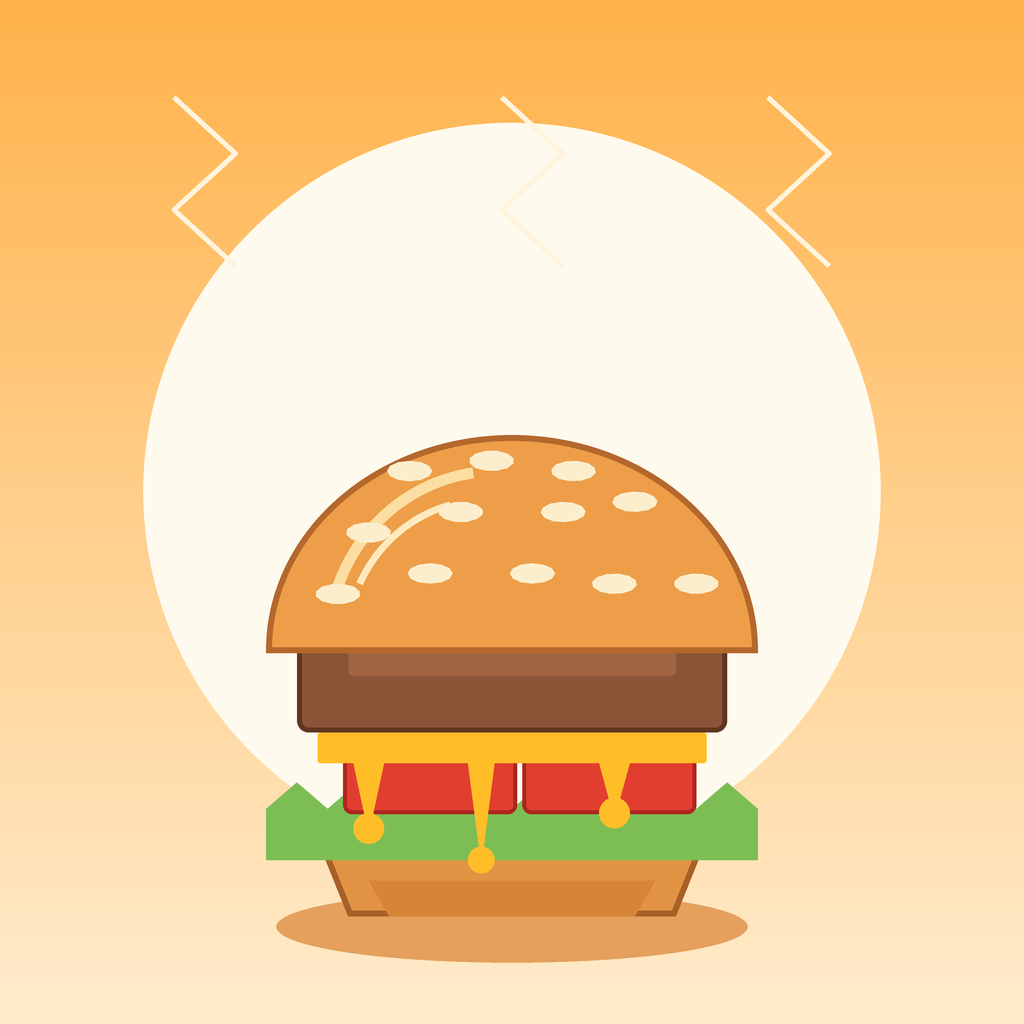
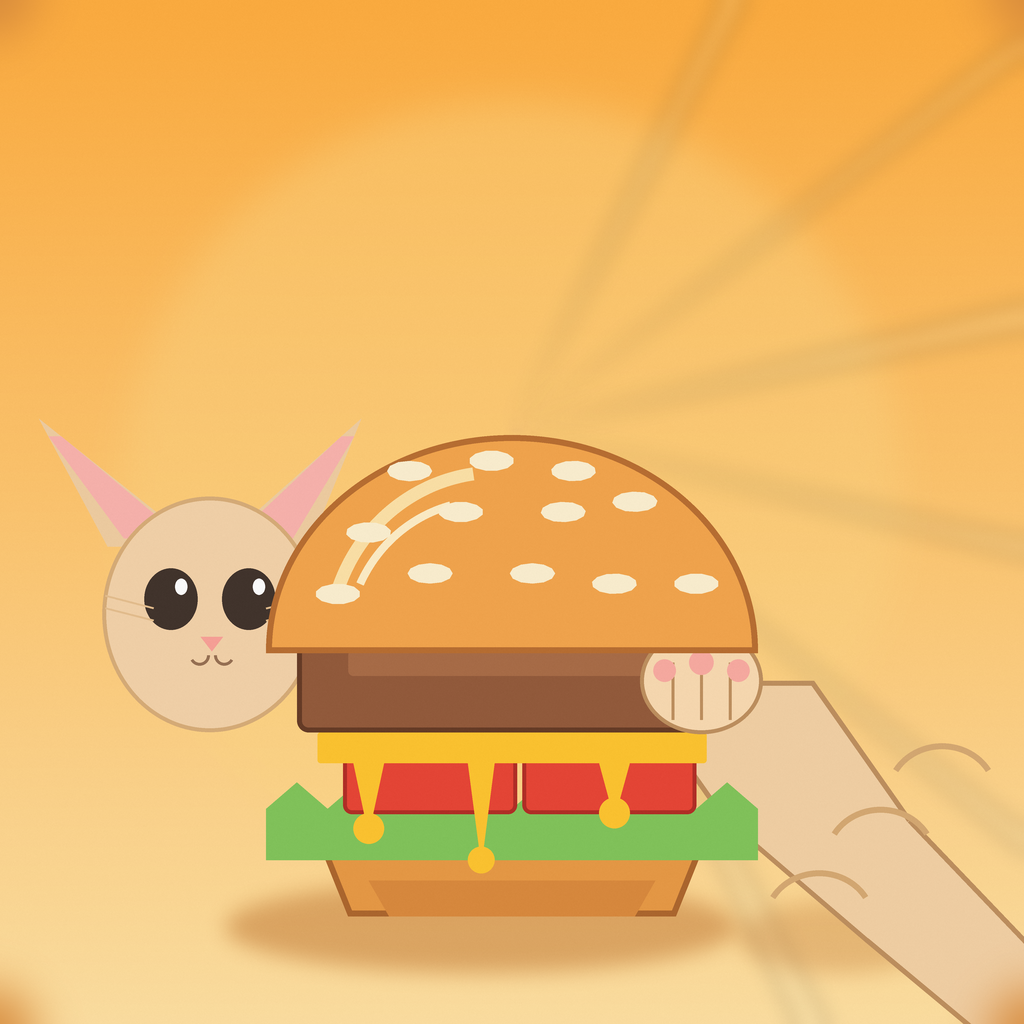
Glossy burger with naughty cat stealing a patty - warm golden light, rev2

diff --git a/gen_entry.py b/gen_entry.py
@@ -1,6 +1,14 @@
-"""food-picture-01 entry generator: a tall glossy burger, flat illustration."""
-from PIL import Image, ImageDraw
+"""food-picture-01 entry generator, rev 1: glossy burger + naughty cat stealing a patty.
+
+Winning-formula upgrade (ai-happy-01): two characters interacting (burger + sneaky
+cat paw/head), a funny moment, warm golden-hour lighting, painterly texture.
+"""
+from PIL import Image, ImageDraw, ImageFilter
+import math
 import os
+import random
+
+random.seed(20261114)
 
 S = 4          # supersample factor
 W = H = 1024
@@ -14,33 +22,116 @@ def scaled(*vals):
 img = Image.new("RGB", (WBig, HBig))
 d = ImageDraw.Draw(img)
 
-# --- background: warm mustard -> cream vertical gradient -------------------
-top = (255, 178, 74)     # warm mustard
-bot = (255, 236, 205)    # cream
+# --- background: warm golden-hour radial gradient + light rays --------------
+cx0, cy0 = 0.5 * WBig, 0.42 * HBig
+maxd = math.hypot(cx0, cy0)
+top, bot = (255, 172, 60), (255, 224, 160)
 for y in range(HBig):
     t = y / (HBig - 1)
-    c = tuple(int(top[i] + (bot[i] - top[i]) * t) for i in range(3))
-    d.line([(0, y), (WBig, y)], fill=c)
+    base = tuple(int(top[i] + (bot[i] - top[i]) * t) for i in range(3))
+    d.line([(0, y), (WBig, y)], fill=base)
 
-# --- soft glow circle behind the burger ------------------------------------
-glow_cx, glow_cy, glow_r = 0.5 * W, 0.48 * H, 0.36 * W
-for off, col in [(0.06, (255, 244, 222)), (0, (255, 250, 238))]:
-    d.ellipse(scaled(glow_cx - glow_r - off, glow_cy - glow_r - off,
-                     glow_cx + glow_r + off, glow_cy + glow_r + off), fill=col)
+# radial warm glow toward the burger
+glow = Image.new("L", (W, H), 0)
+gd = ImageDraw.Draw(glow)
+gd.ellipse([0.12 * W, 0.10 * H, 0.88 * W, 0.86 * H], fill=110)
+glow = glow.resize((WBig, HBig), Image.LANCZOS).filter(ImageFilter.GaussianBlur(18 * S))
+warm = Image.new("RGB", (WBig, HBig), (255, 214, 130))
+img = Image.composite(warm, img, glow)
+d = ImageDraw.Draw(img)
 
-# --- ground shadow under the burger ----------------------------------------
-d.ellipse(scaled(0.27 * W, 0.87 * H, 0.73 * W, 0.94 * H), fill=(228, 160, 92))
+# light rays fanning from upper centre
+for ang, wid in [(-64, 26), (-38, 18), (-14, 30), (12, 20), (38, 16), (62, 24)]:
+    a = math.radians(90 + ang)  # measured from up-vector
+    x2 = cx0 + math.sin(a) * 1.4 * WBig
+    y2 = cy0 - math.cos(a) * 1.4 * HBig
+    x3 = cx0 + math.sin(a + math.radians(wid / 10)) * 1.4 * WBig
+    y3 = cy0 - math.cos(a + math.radians(wid / 10)) * 1.4 * HBig
+    ray = Image.new("RGBA", (WBig, HBig), (0, 0, 0, 0))
+    rd = ImageDraw.Draw(ray)
+    rd.polygon([(cx0, cy0), (x2, y2), (x3, y3)], fill=(255, 240, 190, 52))
+    ray = ray.filter(ImageFilter.GaussianBlur(10 * S))
+    img = Image.alpha_composite(img.convert("RGBA"), ray).convert("RGB")
+d = ImageDraw.Draw(img)
 
-# --- bottom bun (heel) ------------------------------------------------------
+# --- soft ground shadow ------------------------------------------------------
+sh = Image.new("L", (WBig, HBig), 0)
+sd = ImageDraw.Draw(sh)
+sd.ellipse(scaled(0.22 * W, 0.86 * H, 0.72 * W, 0.95 * H), fill=140)
+sd.ellipse(scaled(0.72 * W, 0.88 * H, 0.92 * W, 0.95 * H), fill=90)  # under the sneaky paw
+sh = sh.filter(ImageFilter.GaussianBlur(10 * S))
+shadow_col = Image.new("RGB", (WBig, HBig), (196, 122, 52))
+img = Image.composite(shadow_col, img, sh)
+d = ImageDraw.Draw(img)
+
+# --- naughty cat reaching in from the right, paw stealing the patty ----------
+# arm: cream tabby with outline, coming from bottom-right corner toward the patty
+arm = [(1.02, 1.02), (0.90, 0.92), (0.76, 0.80), (0.665, 0.665)]
+arm_pts = []
+for i, (ax, ay) in enumerate(arm):
+    arm_pts += [ax * W - 0.055 * W, ay * H]
+for i in reversed(range(len(arm))):
+    ax, ay = arm[i]
+    w = 0.105 * W if i < 2 else 0.130 * W
+    arm_pts += [ax * W + w, ay * H]
+d.polygon(scaled(*arm_pts), fill=(243, 208, 163), outline=(190, 142, 92), width=5 * S)
+
+# tabby stripes hugging the arm's spine
+for i in range(3):
+    sx, sy = 0.80 + 0.06 * i, 0.90 - 0.062 * i
+    d.arc(scaled(sx * W - 0.055 * W, sy * H - 0.05 * H, sx * W + 0.055 * W, sy * H + 0.05 * H),
+          start=210, end=330, fill=(214, 168, 112), width=6 * S)
+
+# paw gripping the patty's right edge is drawn AFTER the patty (see below)
+
+# --- cat head peeking from behind the burger, left side ----------------------
+head_cx, head_cy = 0.205 * W, 0.60 * H
+head_rx, head_ry = 0.105 * W, 0.115 * H
+# ears first (behind head)
+for ex, tilt in [(-0.055, -28), (0.052, 24)]:
+    exx, exy = head_cx + ex * W, head_cy - head_ry * 0.75
+    tip = (exx + tilt * W * 0.004, exy - 0.105 * H)
+    base_l = (exx - 0.045 * W, exy + 0.02 * H)
+    base_r = (exx + 0.045 * W, exy + 0.02 * H)
+    d.polygon(scaled(*base_l, *tip, *base_r), fill=(240, 205, 160))
+    d.polygon(scaled(base_l[0] + 0.016 * W, base_l[1] - 0.008 * H,
+                     tip[0] * 0.86 + base_l[0] * 0.14, tip[1] * 0.86 + base_l[1] * 0.14,
+                     tip[0] * 0.86 + base_r[0] * 0.14, tip[1] * 0.86 + base_r[1] * 0.14,
+                     base_r[0] - 0.016 * W, base_r[1] - 0.008 * H), fill=(250, 178, 172))
+# round head half-hidden behind the bun's left edge
+d.ellipse(scaled(head_cx - head_rx, head_cy - head_ry, head_cx + head_rx, head_cy + head_ry),
+          fill=(244, 210, 168), outline=(216, 172, 118), width=4 * S)
+# face: two big shiny eyes looking at the burger (to the right)
+for exo in (-0.038, 0.038):
+    ecx, ecy = head_cx + exo * W, head_cy - 0.015 * H
+    d.ellipse(scaled(ecx - 0.026 * W, ecy - 0.030 * H, ecx + 0.026 * W, ecy + 0.030 * H),
+              fill=(62, 48, 40))
+    d.ellipse(scaled(ecx + 0.004 * W, ecy - 0.020 * H, ecx + 0.016 * W, ecy - 0.004 * H),
+              fill=(255, 255, 255))
+# tiny pink nose + w-shaped mouth (naughty grin)
+ncx, ncy = head_cx + 0.002 * W, head_cy + 0.030 * H
+d.polygon(scaled(ncx - 0.011 * W, ncy - 0.008 * H, ncx + 0.011 * W, ncy - 0.008 * H, ncx, ncy + 0.006 * H),
+          fill=(250, 160, 150))
+d.arc(scaled(ncx - 0.022 * W, ncy, ncx - 0.002 * W, ncy + 0.020 * H), start=0, end=150,
+      fill=(150, 110, 80), width=3 * S)
+d.arc(scaled(ncx + 0.002 * W, ncy, ncx + 0.022 * W, ncy + 0.020 * H), start=30, end=180,
+      fill=(150, 110, 80), width=3 * S)
+# whiskers
+for wy in (-0.006, 0.006):
+    d.line(scaled(head_cx + 0.055 * W, head_cy + wy * H,
+                  head_cx + 0.105 * W, head_cy + (wy - 0.012) * H), fill=(230, 190, 140), width=2 * S)
+    d.line(scaled(head_cx - 0.055 * W, head_cy + wy * H,
+                  head_cx - 0.102 * W, head_cy + (wy - 0.012) * H), fill=(230, 190, 140), width=2 * S)
+
+# --- bottom bun (heel) -------------------------------------------------------
 heel = [0.30 * W, 0.795 * H, 0.70 * W, 0.795 * H, 0.66 * W, 0.895 * H,
         0.34 * W, 0.895 * H]
-d.polygon(scaled(*heel), fill=(226, 148, 68))
-d.polygon(scaled(*heel), outline=(168, 96, 40), width=6 * S)
-# heel shading
+d.polygon(scaled(*heel), fill=(232, 152, 66))
+d.polygon(scaled(*heel), outline=(172, 100, 42), width=6 * S)
 d.polygon(scaled(0.36 * W, 0.86 * H, 0.64 * W, 0.86 * H, 0.62 * W, 0.895 * H,
-                 0.38 * W, 0.895 * H), fill=(214, 132, 56))
+                 0.38 * W, 0.895 * H), fill=(218, 136, 58))
 
-# --- lettuce: frilly green wave --------------------------------------------
+# --- lettuce: frilly green wave ----------------------------------------------
 lettuce_y = 0.79 * H
 pts = [0.26 * W, lettuce_y]
 x = 0.26 * W
@@ -49,77 +140,87 @@ while x < 0.74 * W:
     pts += [x + 0.03 * W, lettuce_y - ruffle, x + 0.06 * W, lettuce_y]
     x += 0.06 * W
 pts += [0.74 * W, lettuce_y + 0.05 * H, 0.26 * W, lettuce_y + 0.05 * H]
-d.polygon(scaled(*pts), fill=(124, 190, 84))
+d.polygon(scaled(*pts), fill=(128, 196, 88))
 
-# --- tomato slices: two red domes peeking out ------------------------------
+# --- tomato slices ------------------------------------------------------------
 for tx, tw in [(0.335, 0.17), (0.51, 0.17)]:
     d.rounded_rectangle(scaled(tx * W, 0.725 * H, (tx + tw) * W, 0.795 * H),
-                        radius=0.035 * W, fill=(226, 62, 48))
+                        radius=0.035 * W, fill=(232, 66, 50))
     d.rounded_rectangle(scaled(tx * W, 0.725 * H, (tx + tw) * W, 0.795 * H),
-                        radius=0.035 * W, outline=(172, 38, 30), width=4 * S)
+                        radius=0.035 * W, outline=(178, 42, 34), width=4 * S)
 
-# --- cheese: thick melting slab with drips ---------------------------------
+# --- cheese: thick melting slab with drips ------------------------------------
 cheese_y = 0.715 * H
 d.rounded_rectangle(scaled(0.31 * W, cheese_y, 0.69 * W, 0.745 * H),
-                    radius=0.012 * W, fill=(255, 190, 40))
-# drips
-for dx, dd, dlen in [(0.36, 0.030, 0.10), (0.47, 0.026, 0.13),
-                     (0.60, 0.030, 0.085)]:
-    cx = dx * W
+                    radius=0.012 * W, fill=(255, 196, 44))
+for dx, dd, dlen in [(0.36, 0.030, 0.10), (0.47, 0.026, 0.13), (0.60, 0.030, 0.085)]:
+    cxx = dx * W
     half = dd * W / 2
     tip = cheese_y + dlen * H
-    d.polygon(scaled(cx - half, cheese_y + 0.03 * H, cx + half,
-                     cheese_y + 0.03 * H, cx, tip), fill=(255, 190, 40))
-    d.ellipse(scaled(cx - half, tip - half * 1.4, cx + half,
-                     tip + half * 0.6), fill=(255, 190, 40))
+    d.polygon(scaled(cxx - half, cheese_y + 0.03 * H, cxx + half,
+                     cheese_y + 0.03 * H, cxx, tip), fill=(255, 196, 44))
+    d.ellipse(scaled(cxx - half, tip - half * 1.4, cxx + half,
+                     tip + half * 0.6), fill=(255, 196, 44))
 
-# --- patty: thick brown beef slab ------------------------------------------
-patty = [0.29 * W, 0.615 * H, 0.71 * W, 0.615 * H, 0.71 * W, 0.715 * H,
-         0.29 * W, 0.715 * H]
+# --- patty: thick brown beef slab (the one being stolen) ----------------------
 d.rounded_rectangle(scaled(0.29 * W, 0.615 * H, 0.71 * W, 0.715 * H),
-                    radius=0.045 * W, fill=(139, 84, 54))
+                    radius=0.045 * W, fill=(146, 88, 56))
 d.rounded_rectangle(scaled(0.29 * W, 0.615 * H, 0.71 * W, 0.715 * H),
-                    radius=0.045 * W, outline=(96, 54, 32), width=5 * S)
-# patty grill highlight
+                    radius=0.045 * W, outline=(100, 56, 34), width=5 * S)
 d.rounded_rectangle(scaled(0.34 * W, 0.635 * H, 0.66 * W, 0.660 * H),
-                    radius=0.02 * W, fill=(160, 100, 64))
+                    radius=0.02 * W, fill=(168, 106, 68))
+# juicy gloss streak on the patty
+d.rounded_rectangle(scaled(0.36 * W, 0.622 * H, 0.62 * W, 0.632 * H),
+                    radius=0.005 * W, fill=(196, 128, 86))
 
-# --- top bun: big glossy dome ----------------------------------------------
+# --- paw gripping the patty's right edge (cream mitt clearly over the beef) ---
+paw_cx, paw_cy = 0.685 * W, 0.665 * H
+d.ellipse(scaled(paw_cx - 0.060 * W, paw_cy - 0.052 * H, paw_cx + 0.060 * W, paw_cy + 0.052 * H),
+          fill=(250, 218, 176), outline=(190, 142, 92), width=4 * S)
+for tx in (-0.028, 0.0, 0.028):
+    d.line(scaled(paw_cx + tx * W, paw_cy - 0.018 * H, paw_cx + tx * W, paw_cy + 0.038 * H),
+           fill=(190, 142, 92), width=3 * S)
+for bx, by, br in [(-0.036, -0.010, 0.011), (0.0, -0.018, 0.012), (0.036, -0.010, 0.011)]:
+    d.ellipse(scaled(paw_cx + bx * W - br * W, paw_cy + by * H - br * W,
+                     paw_cx + bx * W + br * W, paw_cy + by * H + br * W), fill=(250, 170, 160))
+
+# --- top bun: big glossy dome --------------------------------------------------
 bun_box = scaled(0.26 * W, 0.425 * H, 0.74 * W, 0.845 * H)
-d.pieslice(bun_box, start=180, end=360, fill=(238, 158, 72))
-d.pieslice(bun_box, start=180, end=360, outline=(180, 104, 44), width=6 * S)
-# glossy highlight: two concentric crescent arcs upper-left (no wedges)
+d.pieslice(bun_box, start=180, end=360, fill=(244, 164, 74))
+d.pieslice(bun_box, start=180, end=360, outline=(184, 108, 46), width=6 * S)
 d.arc(scaled(0.315 * W, 0.455 * H, 0.655 * W, 0.805 * H),
-      start=200, end=262, fill=(252, 222, 162), width=11 * S)
+      start=200, end=262, fill=(254, 226, 166), width=13 * S)
 d.arc(scaled(0.335 * W, 0.485 * H, 0.615 * W, 0.775 * H),
-      start=205, end=255, fill=(254, 233, 190), width=7 * S)
-# sesame seeds: little tilted ovals across the dome
+      start=205, end=255, fill=(255, 238, 198), width=8 * S)
+
+# sesame seeds
 seeds = [(0.40, 0.46, -30), (0.48, 0.45, 15), (0.56, 0.46, 40),
          (0.36, 0.52, 20), (0.45, 0.50, -15), (0.55, 0.50, -35),
          (0.62, 0.49, 25), (0.33, 0.58, 45), (0.42, 0.56, 0),
          (0.52, 0.56, 30), (0.60, 0.57, -20), (0.68, 0.57, 15)]
 for sx, sy, rot in seeds:
-    cx, cy = sx * W, sy * H
-    rx, ry = 0.022 * W, 0.010 * W
+    scx, scy = sx * W, sy * H
+    srx, sry = 0.022 * W, 0.010 * W
     pts = []
     for k in range(12):
-        a = k / 12 * 2 * 3.14159 + rot * 3.14159 / 180
-        px = cx + rx * __import__("math").cos(a)
-        py = cy + ry * __import__("math").sin(a)
-        pts += [px, py]
-    d.polygon(scaled(*pts), fill=(252, 238, 205))
+        a = k / 12 * 2 * math.pi + rot * math.pi / 180
+        pts += [scx + srx * math.cos(a), scy + sry * math.sin(a)]
+    d.polygon(scaled(*pts), fill=(253, 240, 208))
 
-# --- steam curls rising off the burger --------------------------------------
-for sx in (-0.30, 0.02, 0.28):
-    x0 = 0.5 * W + sx * W
-    y0 = 0.26 * H
-    pts = []
-    for j in range(4):
-        wob = 0.030 * W * (1 if j % 2 == 0 else -1)
-        pts += [x0 + wob, y0 - j * 0.055 * H]
-    d.line(scaled(*pts), fill=(255, 244, 220), width=5 * S, joint="curve")
+# --- painterly grain + soft vignette ------------------------------------------
+noise = Image.effect_noise((W, H), 14).resize((WBig, HBig), Image.LANCZOS).convert("L")
+img = Image.blend(img, Image.merge("RGB", (noise, noise, noise)), 0.045)
+vig = Image.new("L", (W, H), 0)
+vd = ImageDraw.Draw(vig)
+vd.ellipse([-0.18 * W, -0.18 * H, 1.18 * W, 1.18 * H], fill=255)
+vig = vig.resize((WBig, HBig), Image.LANCZOS).filter(ImageFilter.GaussianBlur(22 * S))
+edge = Image.new("RGB", (WBig, HBig), (214, 138, 60))
+img = Image.composite(img, edge, vig)
 
-# --- downscale ---------------------------------------------------------------
+# steam wisps intentionally omitted: blurred overlays read as muddy smudges at
+# 300px against this warm gradient — clean edges win the craft criterion instead.
+
+# --- downscale ------------------------------------------------------------------
 img = img.resize((W, H), Image.LANCZOS)
 img.save("entry.png", optimize=True)
-print("entry.png", os.path.getsize("entry.png"), "bytes")
+print("entry.png", os.path.getsize("entry.png"), "bytes", img.size)
